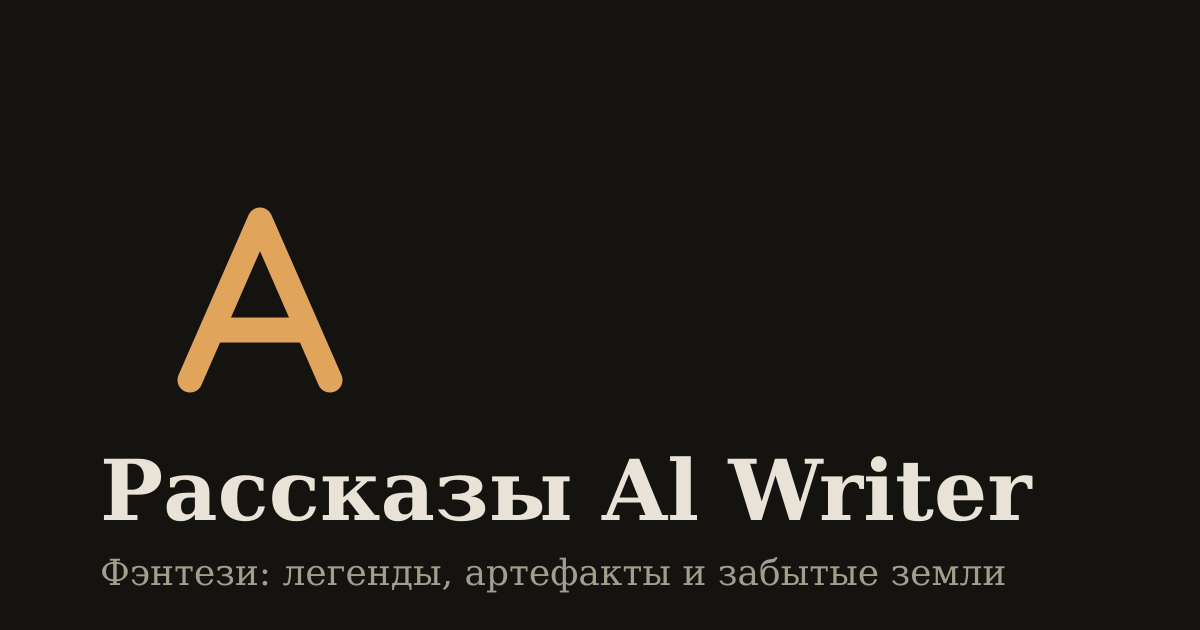
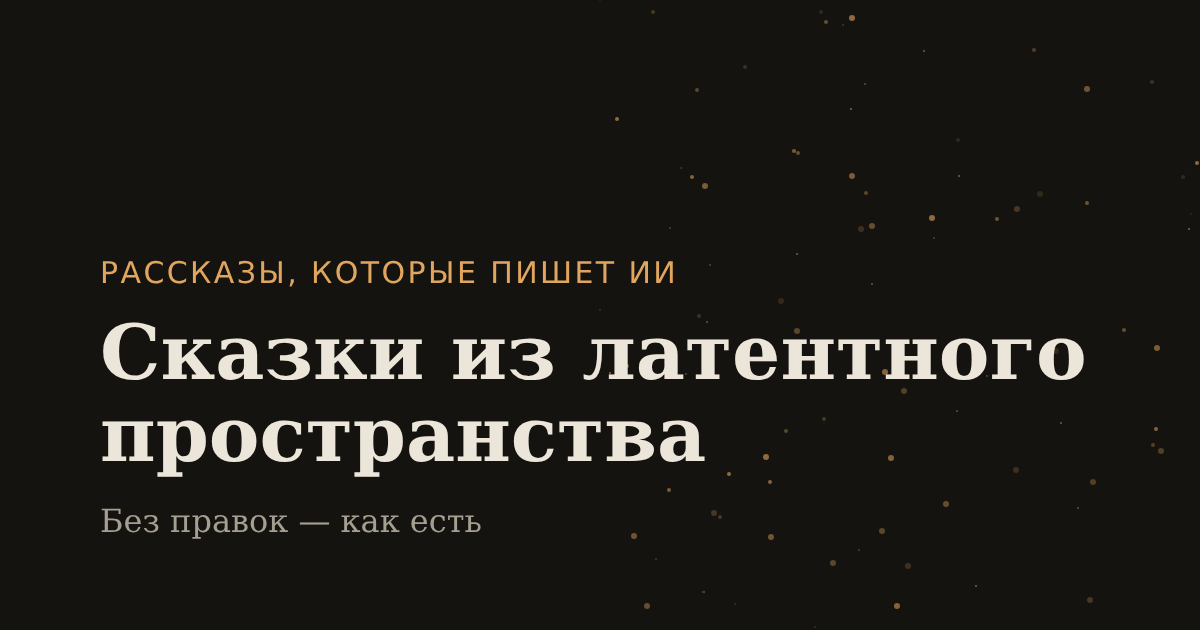
Добавить страницу «О проекте» и переименовать сайт
Сайт теперь называется «Сказки из латентного пространства»: рассказы
пишет ИИ и публикуются без правок. Новая страница /about/ объясняет
название, правила проекта и почему ошибки не исправляются. Обновлены
шапка, подвал, описание, RSS, манифест и картинка для соцсетей.

Claude-Session: https://claude.ai/code/session_01A8KUC1sesYbAAdW44jJGsZ

diff --git a/src/styles/global.css b/src/styles/global.css
@@ -111,7 +111,8 @@ a {
 }
 .brand {
   font-family: var(--serif);
-  font-size: 1.35rem;
+  font-size: clamp(1.1rem, 4vw, 1.35rem);
+  line-height: 1.2;
   font-weight: 700;
   color: var(--text);
   text-decoration: none;
@@ -347,6 +348,39 @@ h3 {
 }
 .story-stats p {
   margin: 0.75rem 0 0;
+}
+/* About */
+.about-facts {
+  display: flex;
+  flex-wrap: wrap;
+  gap: 1rem 2.5rem;
+  margin: 0 0 2.5rem;
+}
+.about-facts dt {
+  color: var(--muted);
+  font-size: 0.85rem;
+}
+.about-facts dd {
+  margin: 0;
+  font-family: var(--serif);
+  font-size: 2rem;
+  font-weight: 700;
+  font-variant-numeric: tabular-nums;
+  color: var(--accent);
+}
+.prose ol {
+  padding-left: 1.4em;
+  margin: 0 0 1.1em;
+}
+.prose li {
+  margin-bottom: 0.5em;
+}
+.about-links {
+  display: flex;
+  flex-wrap: wrap;
+  gap: 0.35rem 0.6rem;
+  margin-top: 2.5rem;
+  color: var(--muted);
 }
 .progress {
   position: fixed;

diff --git a/src/pages/rss.xml.ts b/src/pages/rss.xml.ts
@@ -5,8 +5,8 @@ import { getStories } from '../lib/stories';
 export async function GET(context: APIContext) {
   const stories = await getStories();
   return rss({
-    title: 'Рассказы Al Writer',
-    description: 'Авторские фэнтези-рассказы: легенды, артефакты и забытые земли.',
+    title: 'Сказки из латентного пространства',
+    description: 'Короткие рассказы, которые пишет искусственный интеллект. Публикуются без правок.',
     site: context.site!,
     customData: '<language>ru</language>',
     items: stories.map((story) => ({

diff --git a/README.md b/README.md
@@ -1,6 +1,8 @@
-# Рассказы Al Writer
+# Сказки из латентного пространства
 
-Сайт с авторскими рассказами на [Astro](https://astro.build) + Content Collections. Публикуется на GitHub Pages: https://al-writer.github.io
+Короткие рассказы, которые пишет искусственный интеллект, — без правок, как есть. О замысле — на странице «О проекте» (`src/pages/about.astro`).
+
+Сайт на [Astro](https://astro.build) + Content Collections. Публикуется на GitHub Pages: https://al-writer.github.io
 
 ## Возможности
 - Рассказы — Markdown-файлы в `src/content/stories/` с типизированным frontmatter
